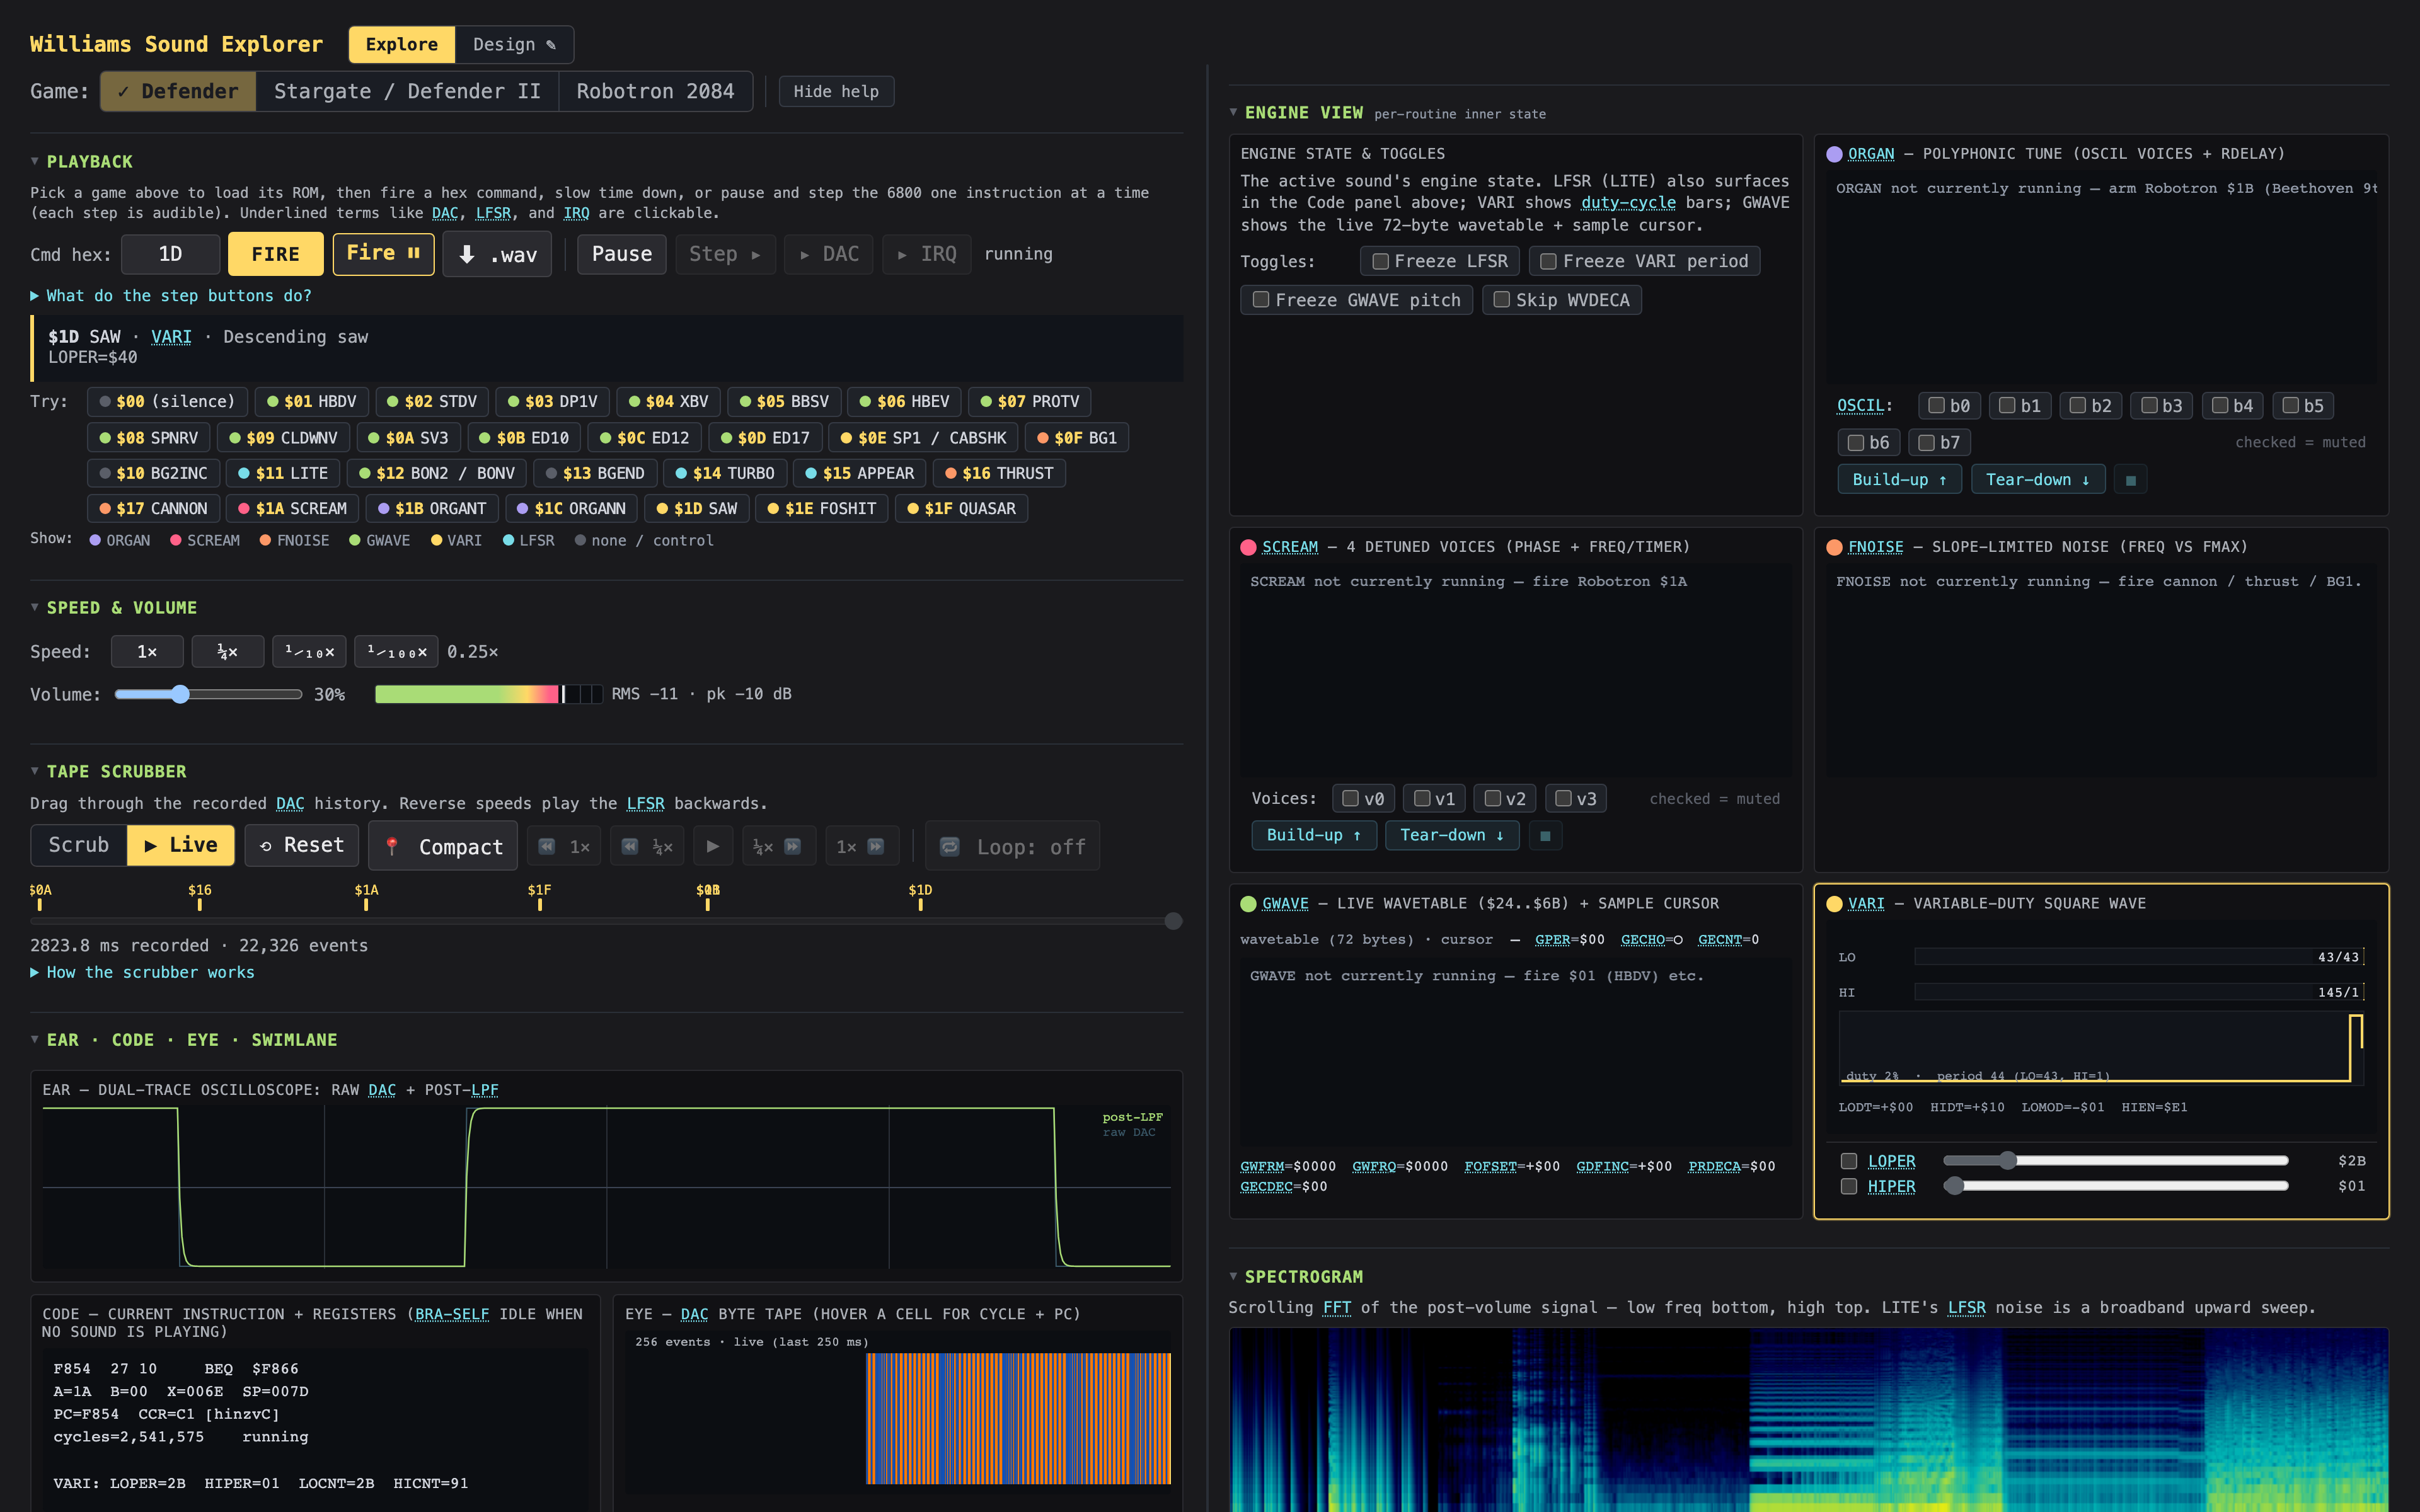
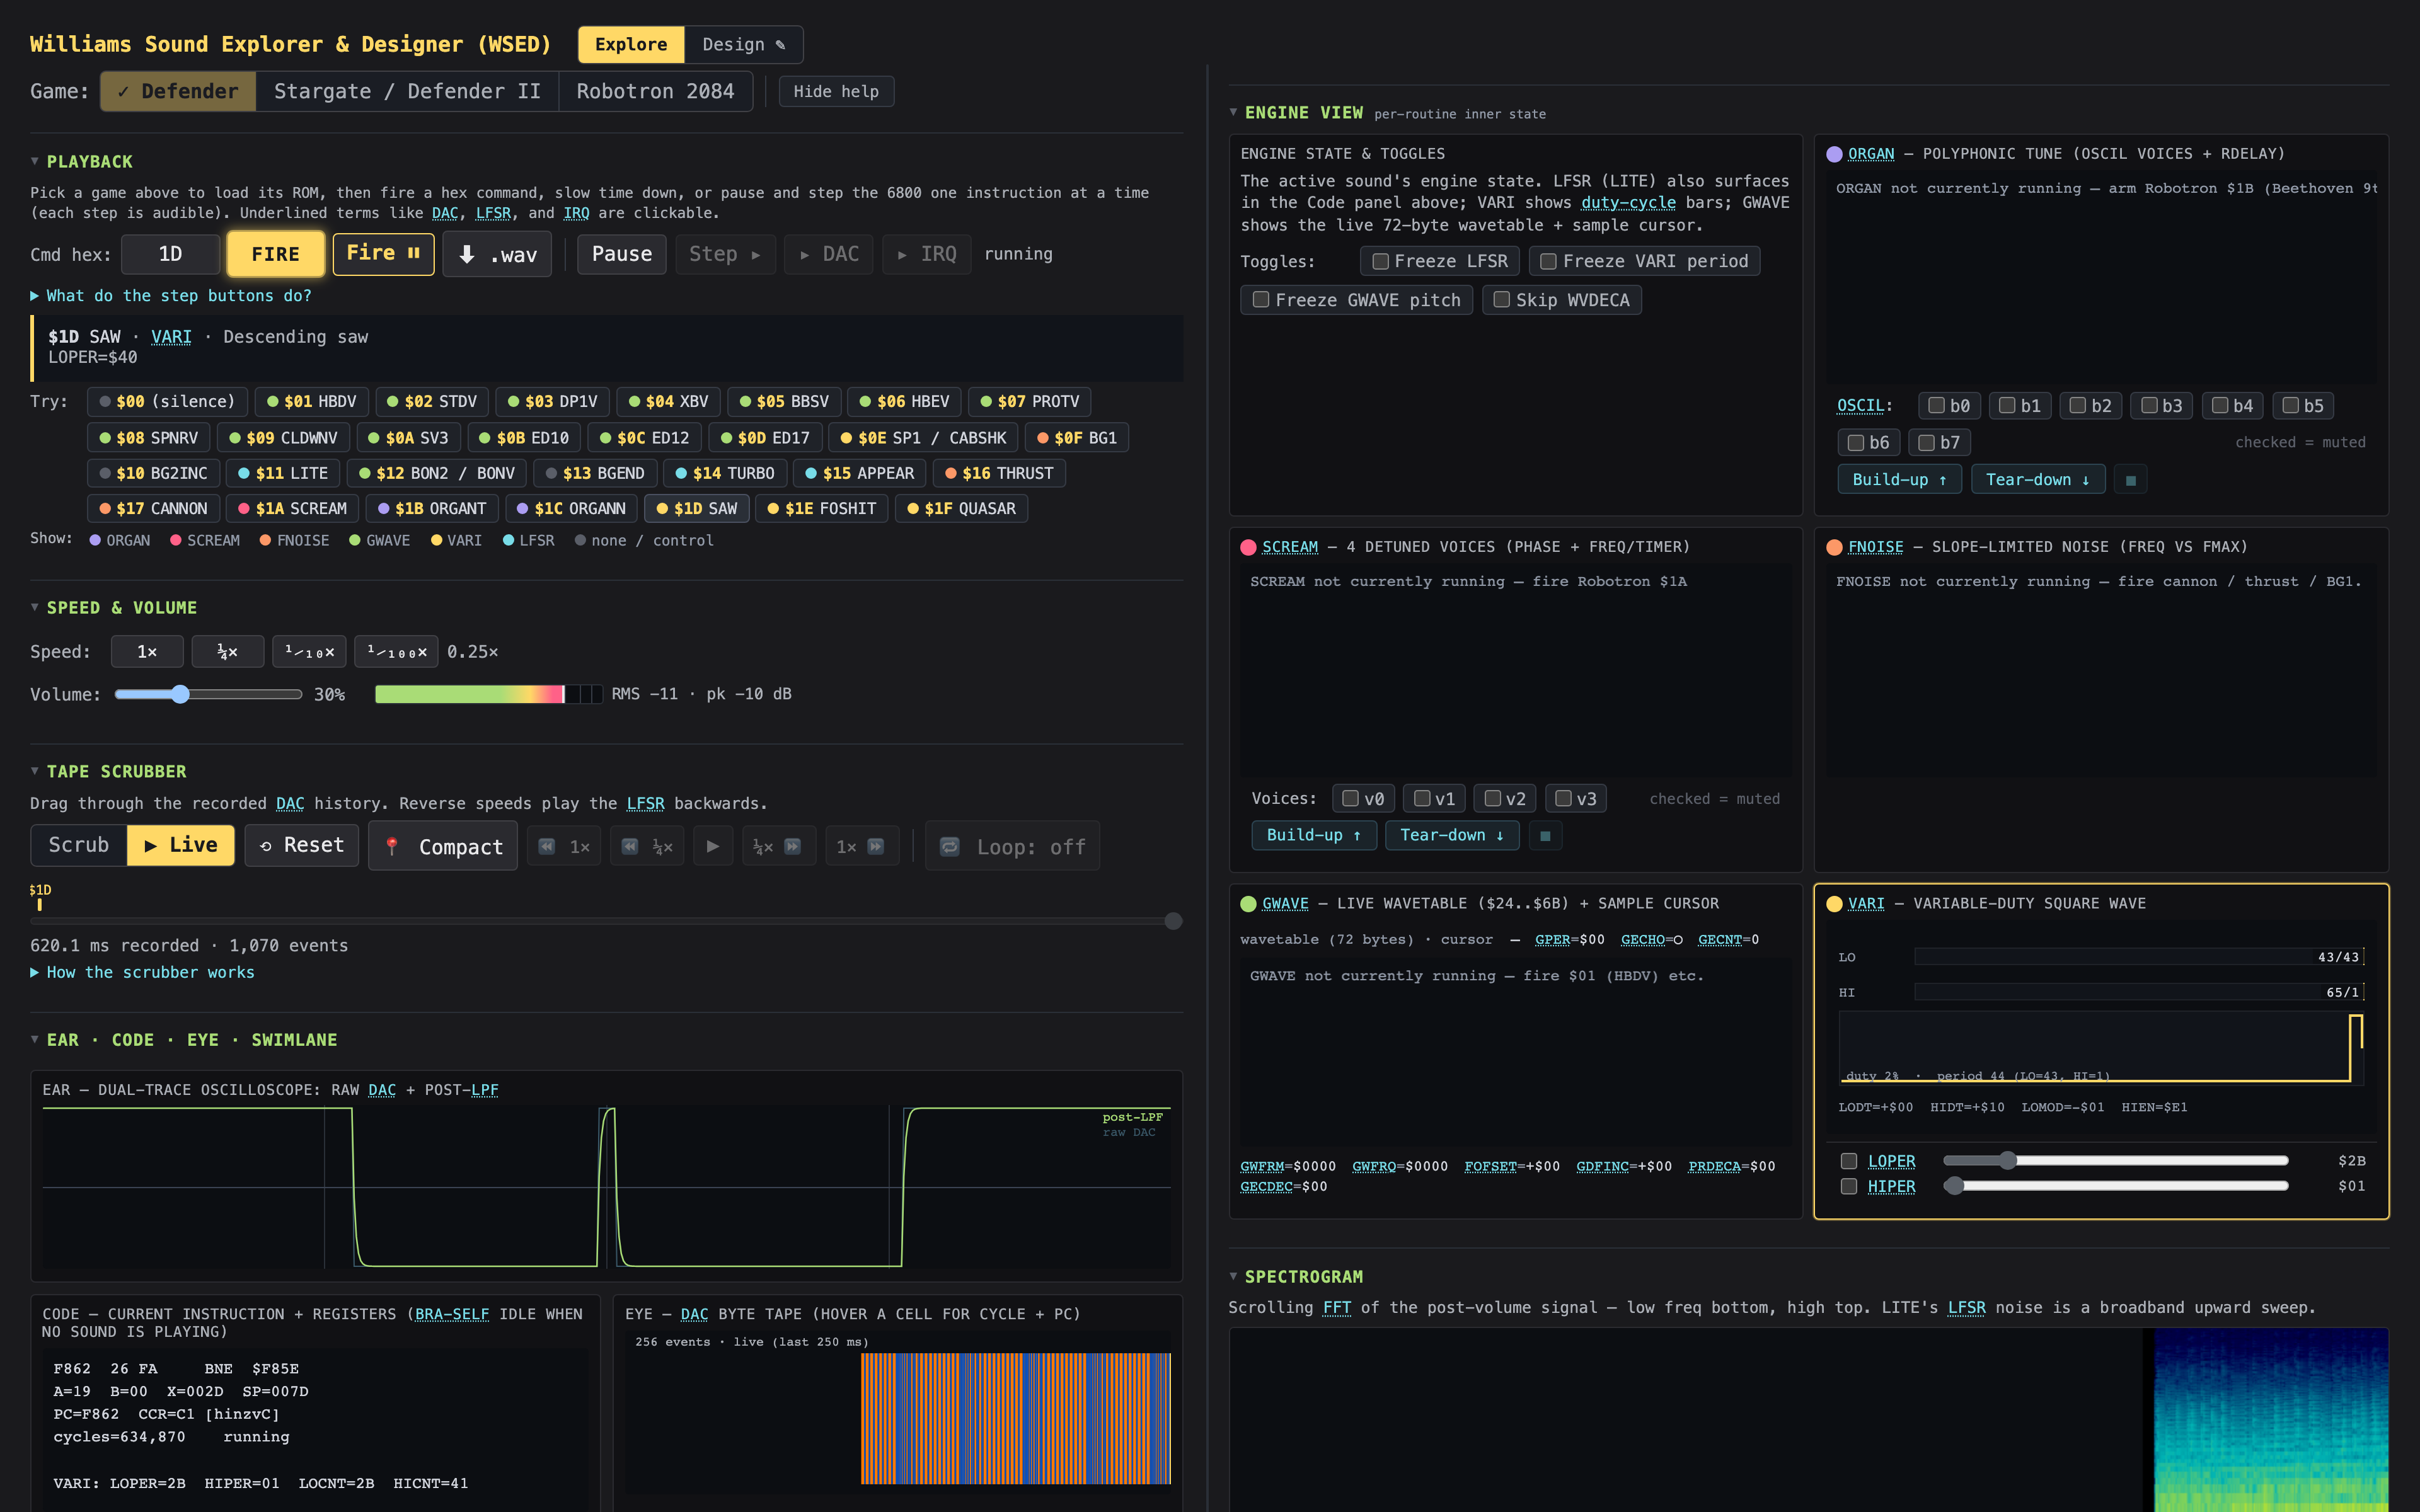
Add a 'sounding now' pulse-glow to the Fire (Explore) + Play (Designer) buttons
Both stay enabled so Space/clicks still re-trigger; the hint reflects the live open-segment state. Also retitles the app (browser tab + on-page headings) to 'Williams Sound Explorer & Designer (WSED)'.

Changed region(s): [[0.3438, 0.875, 1.0, 1.0], [0.125, 0.0, 0.3125, 0.0625], [0.0938, 0.125, 0.1562, 0.1875]]

diff --git a/explorer/tests/playbackActive.test.ts b/explorer/tests/playbackActive.test.ts
@@ -1,0 +1,34 @@
+import { describe, it, expect } from "vitest";
+import { liveSoundActive } from "../src/engine/playbackActive.ts";
+import type { SoundSegment } from "../src/engine/realtimeRunner.ts";
+
+const seg = (startCycle: number, endCycle: number | null): SoundSegment => ({
+  cmd: 0x11,
+  startCycle,
+  endCycle,
+});
+
+describe("liveSoundActive — Fire-button 'sounding now' hint", () => {
+  it("is true when the trailing segment is still open (endCycle null)", () => {
+    expect(liveSoundActive([seg(0, 1000), seg(2000, null)], false)).toBe(true);
+  });
+
+  it("is false when the trailing segment is closed (idle reached)", () => {
+    expect(liveSoundActive([seg(0, 1000), seg(2000, 3000)], false)).toBe(false);
+  });
+
+  it("is false with no segments at all", () => {
+    expect(liveSoundActive([], false)).toBe(false);
+  });
+
+  it("is false while scrubbing, even with an open trailing segment", () => {
+    // Scrubbing replays past audio, not a live fire — the Fire button isn't 'firing'.
+    expect(liveSoundActive([seg(2000, null)], true)).toBe(false);
+  });
+
+  it("looks only at the LAST segment (an earlier open one doesn't count)", () => {
+    // Defensive: the driver never leaves a non-trailing segment open, but the
+    // hint must track the newest fire, not a stale earlier one.
+    expect(liveSoundActive([seg(0, null), seg(2000, 3000)], false)).toBe(false);
+  });
+});

diff --git a/explorer/e2e/smokes.ts b/explorer/e2e/smokes.ts
@@ -21,7 +21,22 @@
 import { type Entry } from "./manifest.ts";
 
 export const entries: Entry[] = [
-  // (none today — add transient regression checks here while building a flow,
-  // and remove them when the feature ships + its permanent capture lives in
-  // capturesExplorer.ts or capturesDesigner.ts.)
+  // Fire-button "sounding now" hint: fire SAW at ¼× (so the sound is still
+  // producing output — the trailing segment stays open — well past the assert),
+  // then verify #fire gains the `.firing` glow class while it stays enabled.
+  // Regression guard for liveSoundActive() + the renderState toggle.
+  {
+    id: "fire-firing-hint",
+    game: "defender",
+    steps: [
+      { speed: "0.25" },
+      { fireChip: "1D" }, // SAW (VARI) — long enough to still be sounding at assert
+      { waitMs: 400 }, // let a snapshot with the open segment arrive
+    ],
+    readyWhen: { recorded: true },
+    assert: [
+      { hasClass: ["#fire", "firing"] }, // glows while sounding (button stays enabled in code — never re-fire-blocked)
+    ],
+    shot: { clip: "#fire", file: "out/smokes/fire-firing-hint.png" },
+  },
 ];

diff --git a/explorer/src/web/main.css b/explorer/src/web/main.css
@@ -76,6 +76,25 @@ button#fire:hover:not(:disabled) {
 button#fire:disabled {
   background: #4a4530; color: #abafb6; border-color: #4a4530;
 }
+/* "Sounding now" hint — a gentle pulsing glow while the fired sound is still
+   producing output.  Non-blocking: Fire stays fully enabled so Space/clicks
+   re-fire at any time.  Shared keyframes (also used by the Designer Play
+   button); per-button glow colour via the --glow-* custom properties. */
+@keyframes ws-pulse-glow {
+  0%, 100% { box-shadow: 0 0 0 1px var(--glow-soft), 0 0 6px 1px var(--glow-soft); }
+  50%      { box-shadow: 0 0 0 2px var(--glow-strong), 0 0 12px 3px var(--glow-strong); }
+}
+button#fire.firing {
+  --glow-soft: rgba(255, 216, 102, 0.35);
+  --glow-strong: rgba(255, 216, 102, 0.75);
+  animation: ws-pulse-glow 1.1s ease-in-out infinite;
+}
+@media (prefers-reduced-motion: reduce) {
+  button#fire.firing {
+    animation: none;
+    box-shadow: 0 0 0 2px var(--glow-strong), 0 0 10px 2px var(--glow-strong);
+  }
+}
 /* "Fire ⏸" sibling — visually paired with Fire but a touch quieter
    so Fire is clearly the primary action. */
 button#firePaused {

diff --git a/explorer/src/engine/playbackActive.ts b/explorer/src/engine/playbackActive.ts
@@ -1,0 +1,15 @@
+/**
+ * Headless helper for the Explore-mode Fire button's "sounding now" hint.
+ *
+ * The realtime driver keeps the trailing {@link SoundSegment} open
+ * (`endCycle === null`) while DAC output is active and closes it ~50 ms after
+ * the routine goes idle (see `realtimeRunner.ts`).  So a live sound is playing
+ * iff the newest segment is still open.  Scrubbing replays *past* audio rather
+ * than a fresh fire, so it never lights the Fire button.
+ */
+import type { SoundSegment } from "./realtimeRunner.ts";
+
+export function liveSoundActive(segments: readonly SoundSegment[], scrubbing: boolean): boolean {
+  if (scrubbing || segments.length === 0) return false;
+  return segments[segments.length - 1]!.endCycle === null;
+}

diff --git a/explorer/src/web/designer/designer.css b/explorer/src/web/designer/designer.css
@@ -145,6 +145,21 @@
 .designer-transport > button.toggle-on {
   background: #2d4a2e; border-color: #a9dc76; color: #d6f5b8; font-weight: 600;
 }
+/* Play button "sounding now" hint — gentle pulsing green glow while audio is
+   playing.  Non-blocking: stays enabled so [Space] still restarts from the top.
+   Reuses the shared `ws-pulse-glow` keyframes defined in main.css. */
+.designer-transport > button.designer-play.playing {
+  --glow-soft: rgba(169, 220, 118, 0.30);
+  --glow-strong: rgba(169, 220, 118, 0.68);
+  border-color: #a9dc76;
+  animation: ws-pulse-glow 1.1s ease-in-out infinite;
+}
+@media (prefers-reduced-motion: reduce) {
+  .designer-transport > button.designer-play.playing {
+    animation: none;
+    box-shadow: 0 0 0 2px var(--glow-strong), 0 0 10px 2px var(--glow-strong);
+  }
+}
 /* Open in Explore — purple accent matches the dynamic "Custom" entry in the
    game switcher; signals that clicking hands control over to Explore mode. */
 .designer-transport > button.designer-open-explore {

diff --git a/explorer/index.html b/explorer/index.html
@@ -3,7 +3,7 @@
   <head>
     <meta charset="UTF-8" />
     <meta name="viewport" content="width=device-width, initial-scale=1" />
-    <title>Williams Sound Explorer</title>
+    <title>Williams Sound Explorer &amp; Designer (WSED)</title>
     <link rel="stylesheet" href="/src/web/main.css" />
   </head>
   <body>
@@ -12,7 +12,7 @@
          locally in IndexedDB.  Slots are built by web/onboarding.ts. -->
     <div id="onboarding">
       <div class="onboarding-card">
-        <h1>Williams Sound Explorer</h1>
+        <h1>Williams Sound Explorer &amp; Designer (WSED)</h1>
         <p>
           This explorer emulates the original Williams arcade <strong>sound ROMs</strong>
           (Defender 1980, Stargate 1981, Robotron 2084 1982).  Those ROM images are
@@ -37,7 +37,7 @@
 
     <div class="page">
       <div class="mode-bar">
-        <h1>Williams Sound Explorer</h1>
+        <h1>Williams Sound Explorer &amp; Designer (WSED)</h1>
         <!-- Top-level mode switch.  Explore = the read-only visualiser (default);
              Design = the sound-designer mode (web/designer/*), mounted lazily
              into #designer-root.  Switching hides the other mode's surface. -->

diff --git a/explorer/src/web/main.ts b/explorer/src/web/main.ts
@@ -16,6 +16,7 @@ import { loadGlossary, lookup, type Glossary } from "./glossary.ts";
 import { loadLabelMaps, emptyLabelMap, type LabelMap } from "./labelMap.ts";
 import { loadZeroPageMaps } from "./zeroPageMap.ts";
 import { runSoundWithRom } from "../engine/runner.ts";
+import { liveSoundActive } from "../engine/playbackActive.ts";
 import { renderDacEvents } from "../synth/DacSampler.ts";
 import { applyLpf } from "../synth/lpf.ts";
 import { encodeWav } from "../synth/wav.ts";
@@ -612,6 +613,9 @@ function renderState(s: StateSnapshot): void {
   recordedNewest = s.recorded.newestCycle;
   knownSegments = clipSegmentsToRange(s.segments, recordedOldest, recordedNewest);
   scrubbing = s.scrubbing;
+  // Non-blocking "sounding now" hint — Fire stays enabled (Space re-fires
+  // anytime); it just glows while the live sound is still producing output.
+  els.fire.classList.toggle("firing", liveSoundActive(s.segments, s.scrubbing));
   applyScrubUiState();
   updateScrubReadout(s);
   updateVolumeMeter(s);

diff --git a/explorer/src/web/designer/designerMode.ts b/explorer/src/web/designer/designerMode.ts
@@ -516,6 +516,9 @@ export function mountDesigner(root: HTMLElement, ctx: AppContext): DesignerHandl
   onPlaybackState((s: PlayState) => {
     pauseBtn.disabled = s === "idle";
     pauseBtn.textContent = s === "paused" ? "▶ Resume" : "⏸ Pause";
+    // Non-blocking "sounding now" hint — the button stays enabled (Space still
+    // restarts from the top); it just glows while audio is actually playing.
+    playBtn.classList.toggle("playing", s === "playing");
   });
   // Design-mode keyboard map (F1): kept minimal and scoped to this surface —
   // Space = Play (restart) · P = Pause/Resume.  Listener fires only when

diff --git a/docs/README.md b/docs/README.md
@@ -6,16 +6,16 @@
 
 ## Read in this order
 
-1. **Hardware** — `hardware/sound_hardware_model.md` — the 6802 sound board you'll emulate
-2. **Primitives** — `hardware/synthesis_techniques.md` — the 8 DSP techniques every sound is built from
-3. **Catalogues** — `catalogue/{defender,stargate,robotron}_sound_catalogue.md` — every sound's command code + parameters
-4. **Pedagogy** — `design/pedagogical_design.md` — *how to explain these sounds* — design principles + UX patterns
-5. **Prior art** — `design/sound_studio_reference.md` — what zapspace's Defender Sound Studio teaches
-6. **Architecture** — `implementation/explorer_architecture.md` — the 6-phase plan and snapshot schema
-7. **Implementation** — `implementation/explorer_implementation.md` — **what's actually built** (Phases 1–6 done; all 12 UX patterns shipped)
-8. **Reference audio** — `pipeline/reference_audio_plan.md` — how to obtain WAVs of every effect
+1. **Hardware** — [`hardware/sound_hardware_model.md`](hardware/sound_hardware_model.md) — the 6802 sound board you'll emulate
+2. **Primitives** — [`hardware/synthesis_techniques.md`](hardware/synthesis_techniques.md) — the 8 DSP techniques every sound is built from
+3. **Catalogues** — [`defender`](catalogue/defender_sound_catalogue.md) / [`stargate`](catalogue/stargate_sound_catalogue.md) / [`robotron`](catalogue/robotron_sound_catalogue.md) `_sound_catalogue.md` — every sound's command code + parameters
+4. **Pedagogy** — [`design/pedagogical_design.md`](design/pedagogical_design.md) — *how to explain these sounds* — design principles + UX patterns
+5. **Prior art** — [`design/sound_studio_reference.md`](design/sound_studio_reference.md) — what zapspace's Defender Sound Studio teaches
+6. **Architecture** — [`implementation/explorer_architecture.md`](implementation/explorer_architecture.md) — the 6-phase plan and snapshot schema
+7. **Implementation** — [`implementation/explorer_implementation.md`](implementation/explorer_implementation.md) — **what's actually built** (Phases 1–6 done; all 12 UX patterns shipped)
+8. **Reference audio** — [`pipeline/reference_audio_plan.md`](pipeline/reference_audio_plan.md) — how to obtain WAVs of every effect
 
-If you need only one document: read `implementation/explorer_implementation.md` (it links to everything else as you need it).
+If you need only one document: read [`implementation/explorer_implementation.md`](implementation/explorer_implementation.md) (it links to everything else as you need it).
 
 > **Naming note:** *Defender II* is the home/console name for arcade **Stargate** (1981). Same sounds.
 
@@ -29,42 +29,42 @@ Curated reference, grouped into five subfolders. `README.md` (this file) is the 
 
 | File | Purpose | Length |
 |---|---|---|
-| **`sound_hardware_model.md`** | CPU, clock, RAM/ROM, DAC, PIA, filter, command latency, ISA notes. The model your emulator must implement. | ~180 lines |
-| **`synthesis_techniques.md`** | The 8 DSP primitives every Williams sound uses, with cycle-count evidence and visualization angles. | ~220 lines |
-| **`defender_hardware_and_programming.md`** | (Pre-existing) Deep dive on Defender's **main** CPU + video pipeline. Background reading; sound is the small last section. | ~400 lines |
+| **[`sound_hardware_model.md`](hardware/sound_hardware_model.md)** | CPU, clock, RAM/ROM, DAC, PIA, filter, command latency, ISA notes. The model your emulator must implement. | ~180 lines |
+| **[`synthesis_techniques.md`](hardware/synthesis_techniques.md)** | The 8 DSP primitives every Williams sound uses, with cycle-count evidence and visualization angles. | ~220 lines |
+| **[`defender_hardware_and_programming.md`](hardware/defender_hardware_and_programming.md)** | (Pre-existing) Deep dive on Defender's **main** CPU + video pipeline. Background reading; sound is the small last section. | ~400 lines |
 
 ### `catalogue/` — per-game command-code references ⚙ *consumed by `tools/build_glossary.py`*
 
 | File | Purpose | Length |
 |---|---|---|
-| **`defender_sound_catalogue.md`** | All 31 Defender command codes, GWAVE/VARI/etc presets, game-side name mappings. | ~150 lines |
-| **`stargate_sound_catalogue.md`** | Stargate (= Defender II). 95% byte-identical to Defender; only ORGAN tunes differ (FIFTH = CE3K motif, NINTH = original riff). | ~150 lines |
-| **`robotron_sound_catalogue.md`** | All 63 Robotron command codes, including unique engines (ORGAN, SCREAM, CDR, PLAY, SING). | ~180 lines |
+| **[`defender_sound_catalogue.md`](catalogue/defender_sound_catalogue.md)** | All 31 Defender command codes, GWAVE/VARI/etc presets, game-side name mappings. | ~150 lines |
+| **[`stargate_sound_catalogue.md`](catalogue/stargate_sound_catalogue.md)** | Stargate (= Defender II). 95% byte-identical to Defender; only ORGAN tunes differ (FIFTH = CE3K motif, NINTH = original riff). | ~150 lines |
+| **[`robotron_sound_catalogue.md`](catalogue/robotron_sound_catalogue.md)** | All 63 Robotron command codes, including unique engines (ORGAN, SCREAM, CDR, PLAY, SING). | ~180 lines |
 
-### `design/` — pedagogy, explainer content, prior art ⚙ *`explainer_cards.md` consumed by `tools/build_explainer_cards.py`*
+### `design/` — pedagogy, explainer content, prior art ⚙ *[`explainer_cards.md`](design/explainer_cards.md) consumed by `tools/build_explainer_cards.py`*
 
 | File | Purpose | Length |
 |---|---|---|
-| **`pedagogical_design.md`** | **How to explain** the sounds. 5 design principles + 12 concrete UX patterns. Read this before building UI. | ~250 lines |
-| **`sound_studio_reference.md`** | What msarnoff's Defender Sound Studio does, what to copy, what to do differently — plus a deep dive on its **editable surface** + **under-the-hood** (hand-ported JS classes, `wait(N)` cycle annotations, `DacSampler`) and **per-engine command-code case studies** ($0A GWAVE, $16 FNOISE, $1A SCREAM, $1F VARI, $1B ORGAN — what the Studio surfaces, what it does *not*, and how each edit propagates, each with a parameter table + pseudocode walkthrough). | ~485 lines |
-| **`explainer_cards.md`** | **Source of truth** for Pattern 9 annotated explainer cards.  One `## ROUTINE — Title` section per card; `tools/build_explainer_cards.py` emits per-routine JSON to `explorer/public/data/explainer/`.  All 63 catalogued routines covered. | ~1400 lines |
+| **[`pedagogical_design.md`](design/pedagogical_design.md)** | **How to explain** the sounds. 5 design principles + 12 concrete UX patterns. Read this before building UI. | ~250 lines |
+| **[`sound_studio_reference.md`](design/sound_studio_reference.md)** | What msarnoff's Defender Sound Studio does, what to copy, what to do differently — plus a deep dive on its **editable surface** + **under-the-hood** (hand-ported JS classes, `wait(N)` cycle annotations, `DacSampler`) and **per-engine command-code case studies** ($0A GWAVE, $16 FNOISE, $1A SCREAM, $1F VARI, $1B ORGAN — what the Studio surfaces, what it does *not*, and how each edit propagates, each with a parameter table + pseudocode walkthrough). | ~485 lines |
+| **[`explainer_cards.md`](design/explainer_cards.md)** | **Source of truth** for Pattern 9 annotated explainer cards.  One `## ROUTINE — Title` section per card; `tools/build_explainer_cards.py` emits per-routine JSON to `explorer/public/data/explainer/`.  All 63 catalogued routines covered. | ~1400 lines |
 
 ### `implementation/` — how WSED is built
 
 | File | Purpose | Length |
 |---|---|---|
-| **`explorer_architecture.md`** | Architecture sketch — CPU emulator vs hand-port, layers, visualization spec, 6-phase plan. | ~200 lines |
-| **`explorer_implementation.md`** | **What's actually built** in `explorer/`: module dependency graph, design decisions, runner API, real-time AudioWorklet pipeline, six engine slots + viz panels, live grid (Ear·Swimlane/Eye·Code), scrubber + RAM time-travel, A/B diff + Genealogy, label-map, parameter overrides, known caveats. Phases 1–6 covered (all 12 UX patterns). | ~900 lines |
-| **`designer_implementation.md`** | **Sound Designer mode** implementation state: module map, locked decisions, the VARI/VVECT + GWAVE/SVTAB references + recipe schema, the fork-the-game UX, the `.bin` roundtrip pipeline, tests. (The designer analog of `explorer_implementation.md`.) The user-facing manual is top-level [`../MANUAL_DESIGNER.md`](../MANUAL_DESIGNER.md). | ~400 lines |
-| **`web-capture.md`** | Playwright capture harness (`explorer/e2e/`) that verifies every MANUAL tutorial's click-path and emits the MANUAL/README screenshots + demo GIF. Local maintainer tool (no ROM bytes). | ~210 lines |
+| **[`explorer_architecture.md`](implementation/explorer_architecture.md)** | Architecture sketch — CPU emulator vs hand-port, layers, visualization spec, 6-phase plan. | ~200 lines |
+| **[`explorer_implementation.md`](implementation/explorer_implementation.md)** | **What's actually built** in `explorer/`: module dependency graph, design decisions, runner API, real-time AudioWorklet pipeline, six engine slots + viz panels, live grid (Ear·Swimlane/Eye·Code), scrubber + RAM time-travel, A/B diff + Genealogy, label-map, parameter overrides, known caveats. Phases 1–6 covered (all 12 UX patterns). | ~900 lines |
+| **[`designer_implementation.md`](implementation/designer_implementation.md)** | **Sound Designer mode** implementation state: module map, locked decisions, the VARI/VVECT + GWAVE/SVTAB references + recipe schema, the fork-the-game UX, the `.bin` roundtrip pipeline, tests. (The designer analog of [`explorer_implementation.md`](implementation/explorer_implementation.md).) The user-facing manual is top-level [`../MANUAL_DESIGNER.md`](../MANUAL_DESIGNER.md). | ~400 lines |
+| **[`web-capture.md`](implementation/web-capture.md)** | Playwright capture harness (`explorer/e2e/`) that verifies every MANUAL tutorial's click-path and emits the MANUAL/README screenshots + demo GIF. Local maintainer tool (no ROM bytes). | ~210 lines |
 
 ### `pipeline/` — getting + building reference audio, ROM tooling
 
 | File | Purpose | Length |
 |---|---|---|
-| **`reference_audio_plan.md`** | How to acquire WAV recordings of every effect (MAME, assemble-and-drive, prerecorded). | ~150 lines |
-| **`assemble_drive_pipeline.md`** | The chosen audio strategy (Path B) — concrete build plan for assembler + 6800 emulator + driver. ~3-day project. | ~200 lines |
-| **`vasm_install_notes.md`** | Low-level build-tooling install + dialect-bridging notes: 17-item fix table, chronology, structural findings. (Build pipeline itself documented privately.) | ~150 lines |
+| **[`reference_audio_plan.md`](pipeline/reference_audio_plan.md)** | How to acquire WAV recordings of every effect (MAME, assemble-and-drive, prerecorded). | ~150 lines |
+| **[`assemble_drive_pipeline.md`](pipeline/assemble_drive_pipeline.md)** | The chosen audio strategy (Path B) — concrete build plan for assembler + 6800 emulator + driver. ~3-day project. | ~200 lines |
+| **[`vasm_install_notes.md`](pipeline/vasm_install_notes.md)** | Low-level build-tooling install + dialect-bridging notes: 17-item fix table, chronology, structural findings. (Build pipeline itself documented privately.) | ~150 lines |
 
 ### `research/` — raw working notes (private)
 
@@ -78,53 +78,53 @@ The dense low-level working notes and their file map are kept in the access-rest
 
 | Topic | Primary doc | Section / pointer |
 |---|---|---|
-| Sound CPU clock | `sound_hardware_model.md` | "TL;DR — eight numbers"; 894.886 kHz |
-| PIA addresses | `sound_hardware_model.md` | Memory map; $0400 = DAC, $0402 = command |
-| 6-bit command interface | `sound_hardware_model.md` | "The command path" |
-| What sample rate to use | `sound_hardware_model.md` | "Choosing your sample-generation strategy" — varies per sound, 5–25 kHz typical |
-| Post-DAC filter | `sound_hardware_model.md` | "DAC and the analog tail" — single-pole ~10 kHz |
-| Latency main→DAC | `sound_hardware_model.md` | "The command path" — ~50 µs |
-| Priority/preemption | `findings_hardware_extra.md` | §5 — new IRQ always wins, no queue |
-| 6800 ISA quirks | `sound_hardware_model.md` | "The 6800/6802/6808 ISA" |
-| GWAVE engine | `synthesis_techniques.md` | §1 |
-| LFSR taps | `synthesis_techniques.md` | §2 — bits 0⊕3, period 65535 |
-| Subtractive decay | `synthesis_techniques.md` | §3 — `working -= (orig>>4) * decay` & wrap |
-| VARI / variable-duty | `synthesis_techniques.md` | §5 |
-| FNOISE slope-walk | `synthesis_techniques.md` | §6 |
-| SCREAM additive | `synthesis_techniques.md` | §7 |
-| ORGAN popcount | `synthesis_techniques.md` | §8 — all three games (tunes differ) |
-| Defender command codes | `defender_sound_catalogue.md` | "Master command table" |
-| Stargate command codes | `stargate_sound_catalogue.md` | "Master command table" |
-| Robotron command codes | `robotron_sound_catalogue.md` | "Master command table" |
-| Stargate vs Defender (deltas only) | `stargate_sound_catalogue.md` | "What's different — the five real changes" |
-| CE3K Fifth motif (FIFTH tune) | `stargate_sound_catalogue.md` | "Tune 1: FIFTH" |
-| NINTH tune (Phred-original) | `stargate_sound_catalogue.md` | "Tune 2: NINTH" |
-| Defender vs Robotron | `robotron_sound_catalogue.md` | "What's new in Robotron" |
-| Beethoven 9th tune | `robotron_sound_catalogue.md` | "ORGAN tunes" |
-| Speech samples? | `robotron_sound_catalogue.md` | "No PCM / no speech" — none in arcade ROM |
-| Sound Studio prior art | `sound_studio_reference.md` | All |
-| AudioWorklet vs ScriptProcessor | `sound_studio_reference.md` | "Things to do differently" |
-| DacSampler algorithm | `sound_studio_reference.md` | "Concrete code patterns" |
-| What to build, in what order | `explorer_architecture.md` | "Implementation phases" |
-| Visualization layers | `explorer_architecture.md` | "Visualization layers" table |
-| Snapshot data shape | `explorer_architecture.md` | "State you need to track" |
-| Why traditional players are insufficient | `pedagogical_design.md` | "The problem" |
-| Five design principles | `pedagogical_design.md` | "Five design principles" |
-| Twelve concrete UX patterns | `pedagogical_design.md` | "Twelve concrete UX patterns" |
-| Difficulty tiers | `pedagogical_design.md` | "Difficulty levels" |
-| MAME wavwrite workflow | `reference_audio_plan.md` | "Path A" |
-| Assemble + drive sound CPU | `reference_audio_plan.md` | "Path B" — recommended canonical path |
-| Defender II = Stargate | `reference_audio_plan.md` | "Naming note" |
-| Reference WAV file layout | `reference_audio_plan.md` | "File layout proposal" |
-| Module dependency graph (explorer) | `explorer_implementation.md` | "Module dependency graph" |
-| Why alu.ts is separate | `explorer_implementation.md` | "CPU emulator — design decisions" |
-| PIA→CPU IRQ wiring (`tick()` pattern) | `explorer_implementation.md` | "IRQ delivery — the tick() pattern" |
-| Interrupt stack frame layout | `explorer_implementation.md` | "Interrupt stack frame" |
-| `runSound()` API | `explorer_implementation.md` | "Runner API" |
-| `tools/render_sound.ts` CLI usage | `explorer_implementation.md` | "The render-sound CLI" |
-| Test coverage summary | `explorer_implementation.md` | "Test surface" |
-| Defender vs Stargate 10-cycle offset finding | `explorer_implementation.md` | "Verified findings" |
-| What's deliberately NOT modelled | `explorer_implementation.md` | "Things deliberately not modelled" |
+| Sound CPU clock | [`sound_hardware_model.md`](hardware/sound_hardware_model.md) | "TL;DR — eight numbers"; 894.886 kHz |
+| PIA addresses | [`sound_hardware_model.md`](hardware/sound_hardware_model.md) | Memory map; $0400 = DAC, $0402 = command |
+| 6-bit command interface | [`sound_hardware_model.md`](hardware/sound_hardware_model.md) | "The command path" |
+| What sample rate to use | [`sound_hardware_model.md`](hardware/sound_hardware_model.md) | "Choosing your sample-generation strategy" — varies per sound, 5–25 kHz typical |
+| Post-DAC filter | [`sound_hardware_model.md`](hardware/sound_hardware_model.md) | "DAC and the analog tail" — single-pole ~10 kHz |
+| Latency main→DAC | [`sound_hardware_model.md`](hardware/sound_hardware_model.md) | "The command path" — ~50 µs |
+| Priority/preemption | [`findings_hardware_extra.md`](../research/findings_hardware_extra.md) | §5 — new IRQ always wins, no queue |
+| 6800 ISA quirks | [`sound_hardware_model.md`](hardware/sound_hardware_model.md) | "The 6800/6802/6808 ISA" |
+| GWAVE engine | [`synthesis_techniques.md`](hardware/synthesis_techniques.md) | §1 |
+| LFSR taps | [`synthesis_techniques.md`](hardware/synthesis_techniques.md) | §2 — bits 0⊕3, period 65535 |
+| Subtractive decay | [`synthesis_techniques.md`](hardware/synthesis_techniques.md) | §3 — `working -= (orig>>4) * decay` & wrap |
+| VARI / variable-duty | [`synthesis_techniques.md`](hardware/synthesis_techniques.md) | §5 |
+| FNOISE slope-walk | [`synthesis_techniques.md`](hardware/synthesis_techniques.md) | §6 |
+| SCREAM additive | [`synthesis_techniques.md`](hardware/synthesis_techniques.md) | §7 |
+| ORGAN popcount | [`synthesis_techniques.md`](hardware/synthesis_techniques.md) | §8 — all three games (tunes differ) |
+| Defender command codes | [`defender_sound_catalogue.md`](catalogue/defender_sound_catalogue.md) | "Master command table" |
+| Stargate command codes | [`stargate_sound_catalogue.md`](catalogue/stargate_sound_catalogue.md) | "Master command table" |
+| Robotron command codes | [`robotron_sound_catalogue.md`](catalogue/robotron_sound_catalogue.md) | "Master command table" |
+| Stargate vs Defender (deltas only) | [`stargate_sound_catalogue.md`](catalogue/stargate_sound_catalogue.md) | "What's different — the five real changes" |
+| CE3K Fifth motif (FIFTH tune) | [`stargate_sound_catalogue.md`](catalogue/stargate_sound_catalogue.md) | "Tune 1: FIFTH" |
+| NINTH tune (Phred-original) | [`stargate_sound_catalogue.md`](catalogue/stargate_sound_catalogue.md) | "Tune 2: NINTH" |
+| Defender vs Robotron | [`robotron_sound_catalogue.md`](catalogue/robotron_sound_catalogue.md) | "What's new in Robotron" |
+| Beethoven 9th tune | [`robotron_sound_catalogue.md`](catalogue/robotron_sound_catalogue.md) | "ORGAN tunes" |
+| Speech samples? | [`robotron_sound_catalogue.md`](catalogue/robotron_sound_catalogue.md) | "No PCM / no speech" — none in arcade ROM |
+| Sound Studio prior art | [`sound_studio_reference.md`](design/sound_studio_reference.md) | All |
+| AudioWorklet vs ScriptProcessor | [`sound_studio_reference.md`](design/sound_studio_reference.md) | "Things to do differently" |
+| DacSampler algorithm | [`sound_studio_reference.md`](design/sound_studio_reference.md) | "Concrete code patterns" |
+| What to build, in what order | [`explorer_architecture.md`](implementation/explorer_architecture.md) | "Implementation phases" |
+| Visualization layers | [`explorer_architecture.md`](implementation/explorer_architecture.md) | "Visualization layers" table |
+| Snapshot data shape | [`explorer_architecture.md`](implementation/explorer_architecture.md) | "State you need to track" |
+| Why traditional players are insufficient | [`pedagogical_design.md`](design/pedagogical_design.md) | "The problem" |
+| Five design principles | [`pedagogical_design.md`](design/pedagogical_design.md) | "Five design principles" |
+| Twelve concrete UX patterns | [`pedagogical_design.md`](design/pedagogical_design.md) | "Twelve concrete UX patterns" |
+| Difficulty tiers | [`pedagogical_design.md`](design/pedagogical_design.md) | "Difficulty levels" |
+| MAME wavwrite workflow | [`reference_audio_plan.md`](pipeline/reference_audio_plan.md) | "Path A" |
+| Assemble + drive sound CPU | [`reference_audio_plan.md`](pipeline/reference_audio_plan.md) | "Path B" — recommended canonical path |
+| Defender II = Stargate | [`reference_audio_plan.md`](pipeline/reference_audio_plan.md) | "Naming note" |
+| Reference WAV file layout | [`reference_audio_plan.md`](pipeline/reference_audio_plan.md) | "File layout proposal" |
+| Module dependency graph (explorer) | [`explorer_implementation.md`](implementation/explorer_implementation.md) | "Module dependency graph" |
+| Why alu.ts is separate | [`explorer_implementation.md`](implementation/explorer_implementation.md) | "CPU emulator — design decisions" |
+| PIA→CPU IRQ wiring (`tick()` pattern) | [`explorer_implementation.md`](implementation/explorer_implementation.md) | "IRQ delivery — the tick() pattern" |
+| Interrupt stack frame layout | [`explorer_implementation.md`](implementation/explorer_implementation.md) | "Interrupt stack frame" |
+| `runSound()` API | [`explorer_implementation.md`](implementation/explorer_implementation.md) | "Runner API" |
+| `tools/render_sound.ts` CLI usage | [`explorer_implementation.md`](implementation/explorer_implementation.md) | "The render-sound CLI" |
+| Test coverage summary | [`explorer_implementation.md`](implementation/explorer_implementation.md) | "Test surface" |
+| Defender vs Stargate 10-cycle offset finding | [`explorer_implementation.md`](implementation/explorer_implementation.md) | "Verified findings" |
+| What's deliberately NOT modelled | [`explorer_implementation.md`](implementation/explorer_implementation.md) | "Things deliberately not modelled" |
 
 ### Source-line citations
 

diff --git a/MANUAL.md b/MANUAL.md
@@ -54,12 +54,7 @@ The left column is *sticky* while the right column scrolls with the window, so y
 
 <img src="docs/img/manual/ui-navigate-columns.png" width="820" alt="Ear oscilloscope on the left and the highlighted GWAVE pane on the right, in the same horizontal band">
 
-<details>
-<summary>The whole UI at once (full-page map)</summary>
-
-<img src="docs/img/manual/ui-full-map.png" width="700" alt="The entire scrollable interface top to bottom — every panel named in the tables below">
-
-</details>
+🗺 **[See the entire interface in one tall screenshot →](docs/img/manual/ui-full-map.png)** — every panel named in the tables below.
 
 A **"Hide help"** button sits in the header (next to the game switcher).  Toggle it to remove all help text, term-link underlines, the cmdInfo blurb, and the Glossary section — the page collapses to *just data* so you can predict what's happening before the labels nudge you (Pattern 12).  Preference persists across reloads.
 